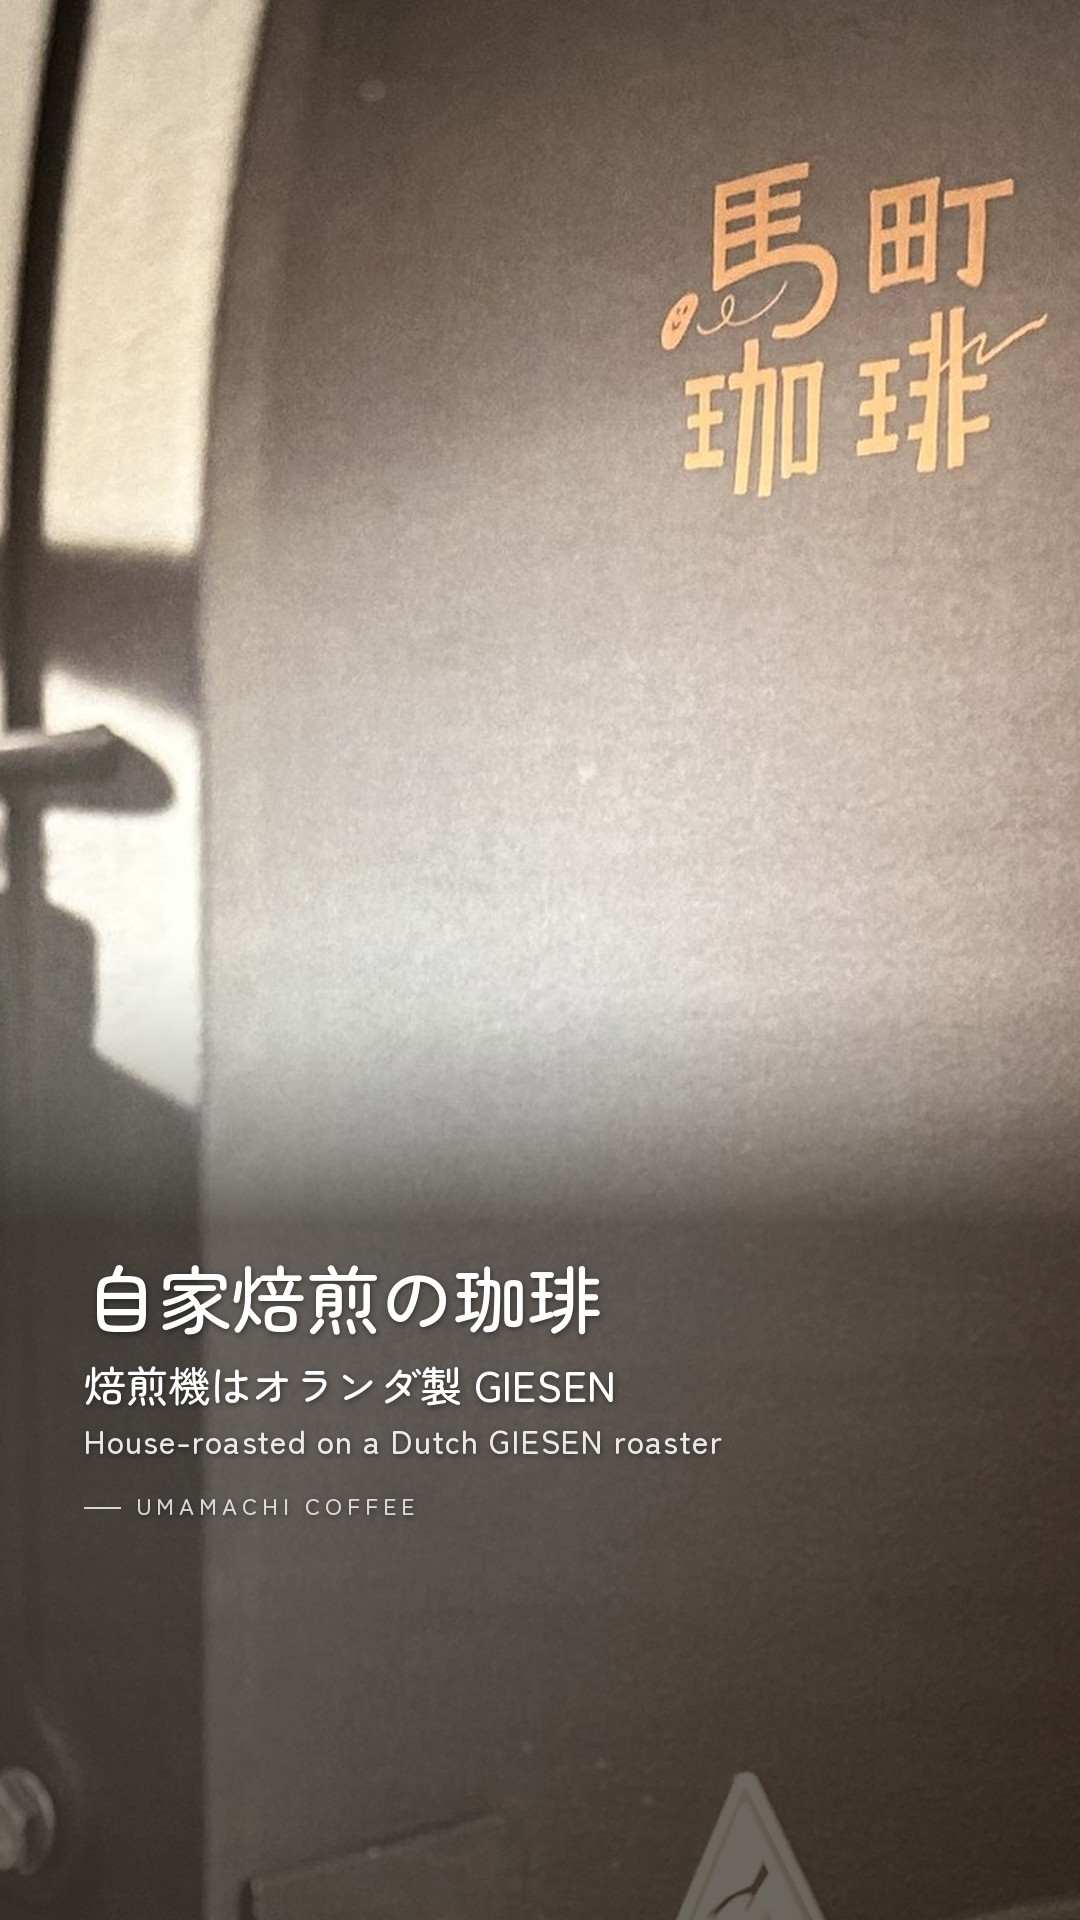
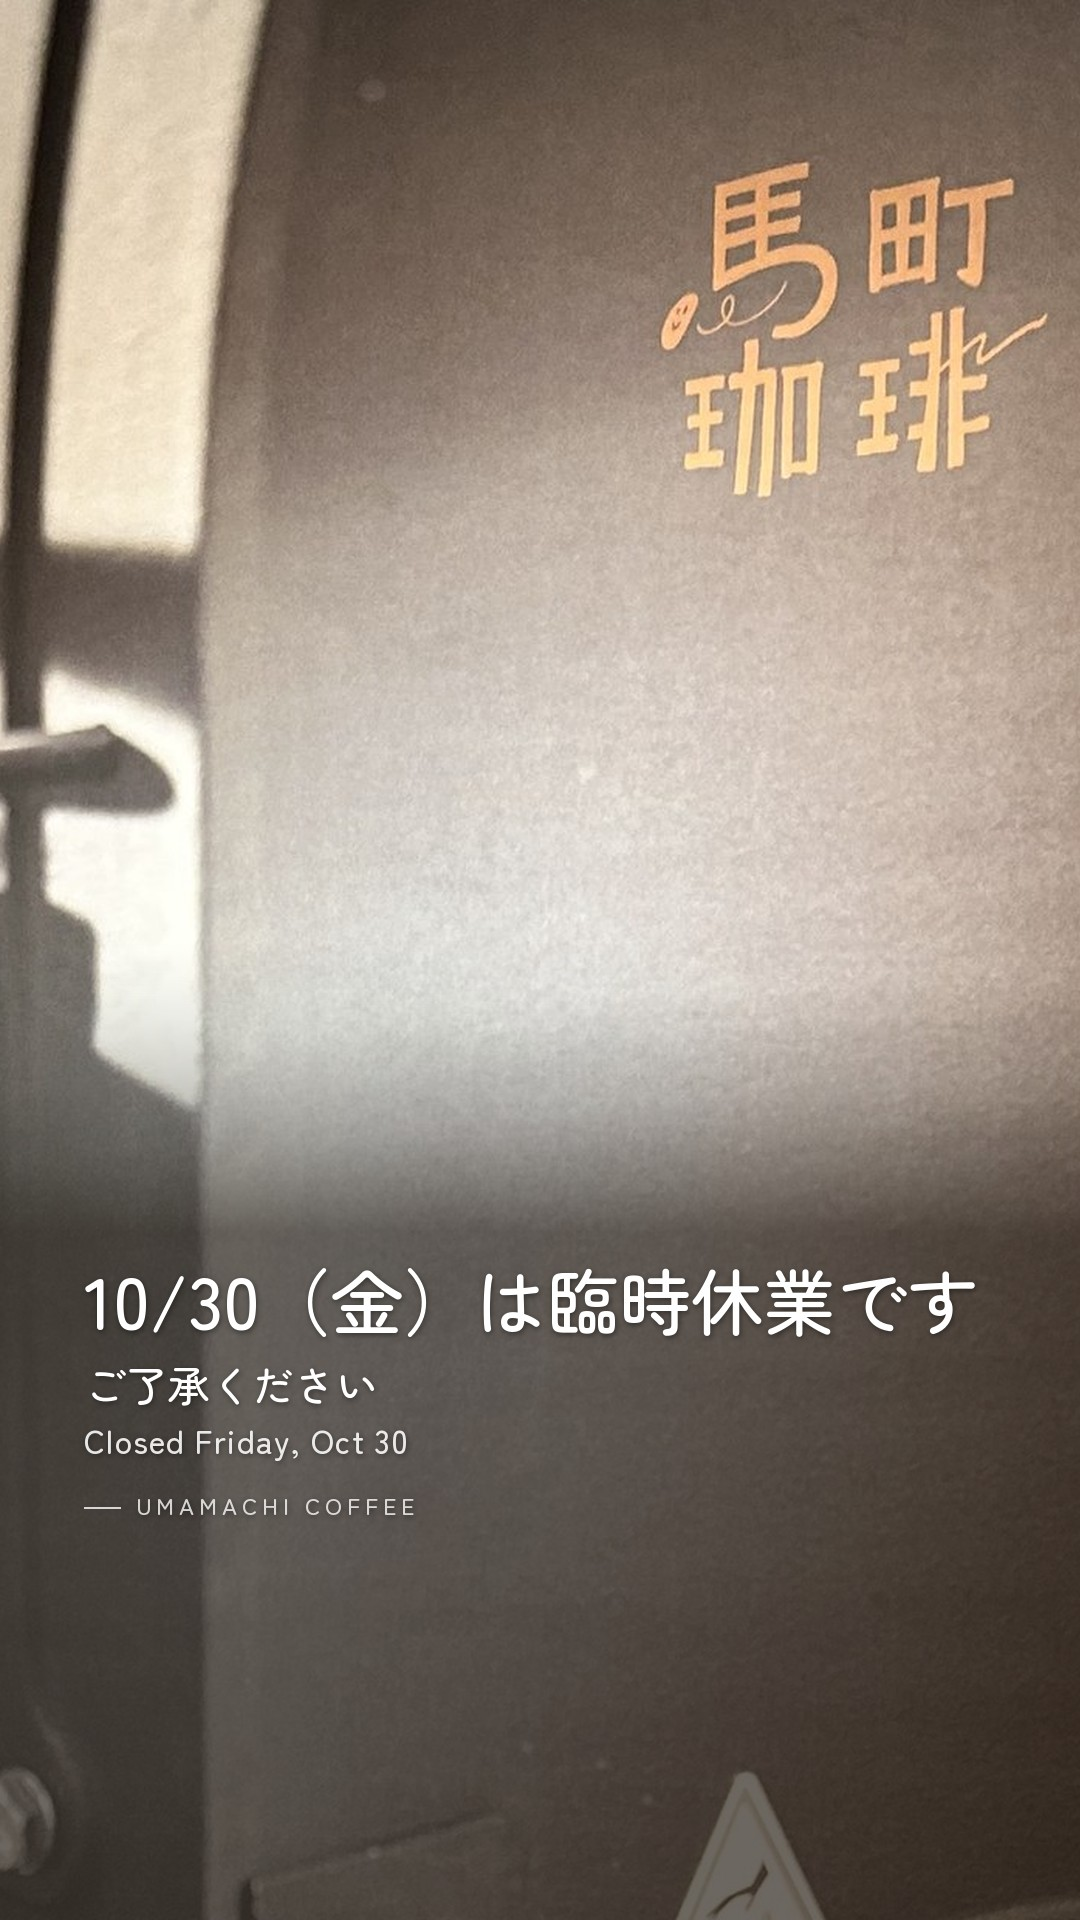
instagram: announce closed Oct 30 on Oct 28–29 posts

Changed region(s): [[0.0611, 0.6562, 0.8861, 0.7812], [0.5806, 0.75, 0.6111, 0.7812]]

diff --git a/instagram/autopost/content.py b/instagram/autopost/content.py
@@ -71,12 +71,16 @@ FEED = [
         headline="京都ムーンバーガー", info="¥1,000（税込）", subline="Kyoto Moon Burger",
         caption=cap(
             """
+            ※10月30日（金）は臨時休業です。ご了承ください。
+
             目玉焼きをのせた「京都ムーンバーガー」。
             珈琲と一緒に、しっかり食べたい日にどうぞ。
 
             京都ムーンバーガー ¥1,000（税込）
             """,
             """
+            Note: We will be closed on Friday, October 30. Thank you for your understanding.
+
             Our Kyoto Moon Burger, topped with a fried egg.
             For days when you want a proper meal with your coffee.
 
@@ -93,11 +97,15 @@ FEED = [
         headline="奥まで、ゆっくり。", info="", subline="Take your time inside",
         caption=cap(
             """
+            ※10月30日（金）は臨時休業です。ご了承ください。
+
             入口から奥へと続く、木の柱とコンクリートの床の店内。
             おひとりでも、どなたかとご一緒でも。
             珈琲を片手に、ゆっくりお過ごしください。
             """,
             """
+            Note: We will be closed on Friday, October 30. Thank you for your understanding.
+
             Wooden pillars and a concrete floor, stretching back from the entrance.
             Whether you come alone or with someone,
             please take your time over a cup of coffee.
@@ -374,10 +382,12 @@ STORIES = [
          headline="エスプレッソ", info="¥400（税込）", subline="Espresso, from our house blend beans"),
     dict(id="s06-takeout", photo="iced-coffee.jpg", crop=None, focus=(0.5, 0.5), layout="photo", position="top",
          headline="テイクアウトもできます", info="", subline="Takeout available"),
+    # 一時: 10/30臨時休業告知。10/29投稿後に元へ戻す
     dict(id="s07-roasting", photo="roaster-poster.jpg", crop=(0.0, 0.04, 1.0, 0.66), focus=(0.85, 0.5), layout="photo", position="bottom",
-         headline="自家焙煎の珈琲", info="焙煎機はオランダ製 GIESEN", subline="House-roasted on a Dutch GIESEN roaster"),
+         headline="10/30（金）は臨時休業です", info="ご了承ください", subline="Closed Friday, Oct 30"),
+    # 一時: 10/30臨時休業告知。10/29投稿後に元へ戻す
     dict(id="s08-access", photo="exterior.jpg", crop=None, focus=(0.5, 0.5), layout="photo", position="bottom",
-         headline="京都市東山区常盤町459-13", info="TEL 075-741-8779", subline="459-13 Tokiwacho, Higashiyama-ku, Kyoto"),
+         headline="10/30（金）は臨時休業です", info="ご了承ください", subline="Closed Friday, Oct 30"),
     # 一杯の写真＋「一杯 ¥580」（豆の価格と混同しないように）
     dict(id="s09-blend", photo="cup-blend.jpg", crop=None, focus=(0.5, 0.5), layout="photo", position="bottom",
          headline="馬町ブレンド", info="一杯 ¥580（税込）", subline="Umamachi Blend — ¥580 per cup"),
